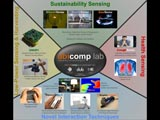
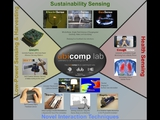
updated all talk thumbnails
used higher quality, but smaller size thumbnail
included scripts for generating thumbnails

diff --git a/tools/makeThumbnails.py b/tools/makeThumbnails.py
@@ -1,0 +1,37 @@
+## Methods to create thumbnails using the ImageMagicks utility
+
+import os, os.path, re, subprocess
+
+def runREinDir(srcDir, includeRE, dstDir, geometry, quality):
+    if not os.path.isdir(srcDir):
+        print "ERROR: srcDir does not exist!"
+        return
+    if not os.path.isdir(dstDir):
+        print "dstDir does not exist, it will be created."
+        os.mkdir(dstDir)
+    files = os.listdir(srcDir)
+    matches = 0
+    sucess = 0
+
+    for f in files:
+        match = re.search(includeRE, f)
+        if match:
+            matches += 1
+            try:
+                if not generateThumbnail(os.path.join(srcDir, f), os.path.join(dstDir, f), geometry, quality):
+                    sucess += 1
+                    print "Generated thumbnail %s" %f
+            except:
+                raise
+                print "ERROR: could not generate thumbnail %s" %f
+
+    print '%d file matches found' %matches
+    print '%d thumbnails generated' %sucess
+
+
+def generateThumbnail(srcFile, dstFile, geometry, quality):
+    '''
+        geometry - must be a valid geometry parameter for the convert function
+        quality - 0 to 100
+    '''
+    return subprocess.call('convert \"%s\" -thumbnail %s -quality %s \"%s\"' %(srcFile, geometry, quality, dstFile), shell=True)

diff --git a/tools/makeThumbs_talks.py b/tools/makeThumbs_talks.py
@@ -1,0 +1,14 @@
+#!/usr/bin/python
+
+# generates thumbnails for the talks
+
+SRC_DIR = "../../Planning/Thumbnails/Talks"
+INCLUDE_RE = r"\.jpg" # regular expression for source files to include
+DST_DIR = "../img/talks"
+GEOMETERY = '160x' # scale such that width is 160px
+QUALITY = 100
+
+import makeThumbnails
+
+print "Generating Thumbnails for Talks..."
+makeThumbnails.runREinDir(SRC_DIR, INCLUDE_RE, DST_DIR, GEOMETERY, QUALITY)
